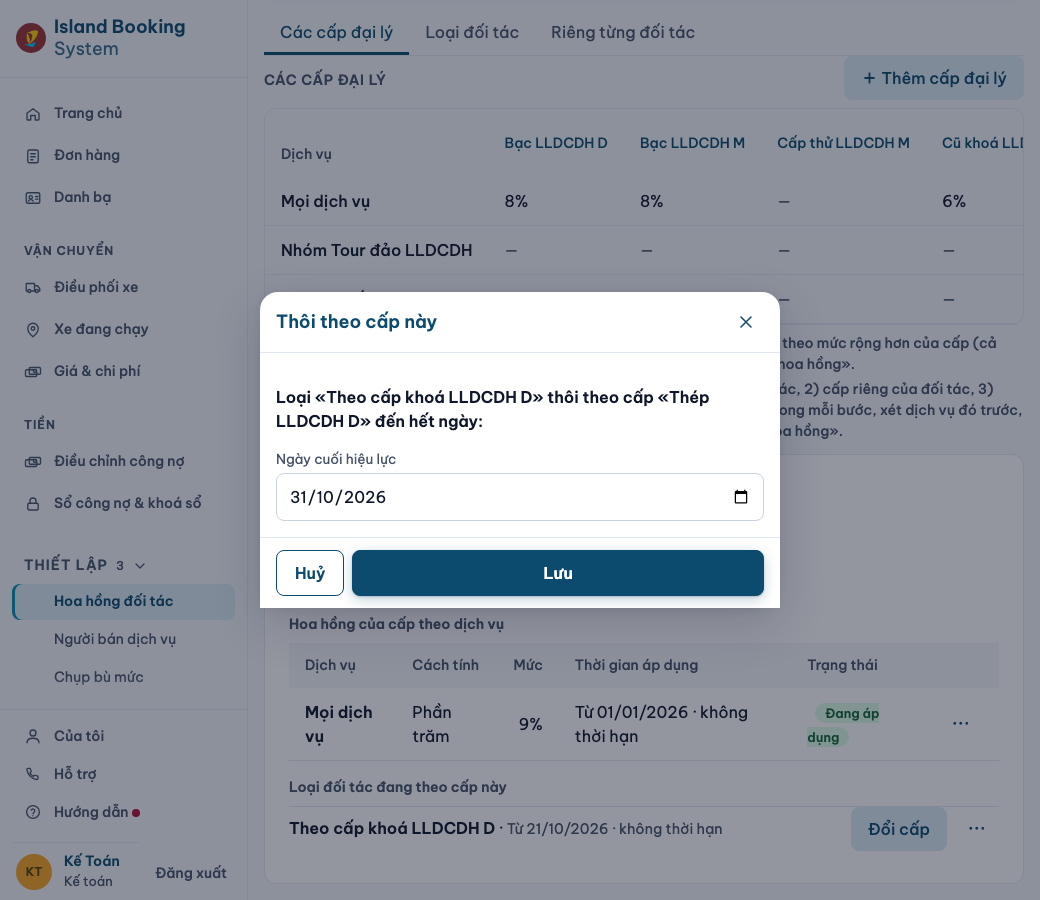
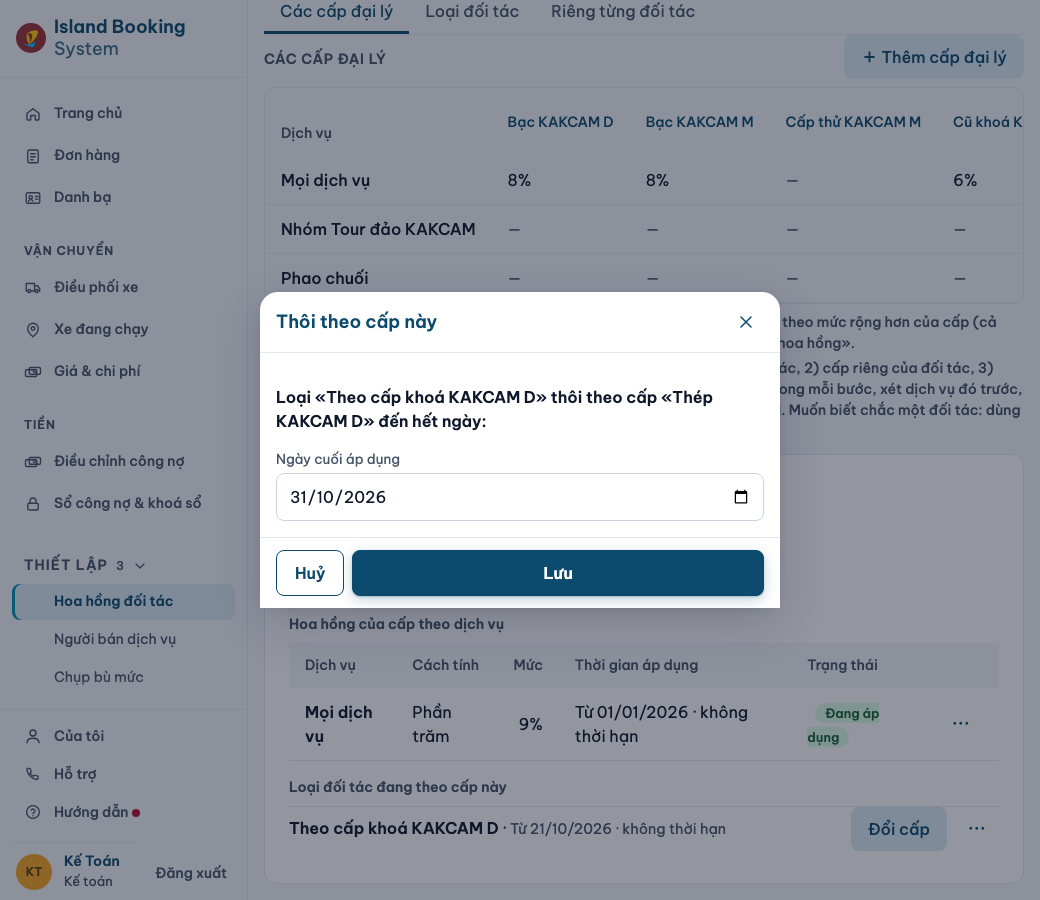
Khớp nốt chữ trang Hoa hồng với họ chữ mới (vòng 2 rà soát ngôn ngữ)
Khôi phục hai cụm bị rút ở C1 và C4; đổi «Ngày cuối hiệu lực» thành «Ngày cuối áp dụng»,
nút ngừng cấp riêng ở Danh bạ thành «Thôi theo cấp này», ba thông báo cấp riêng nói kết quả,
tiêu đề «Sửa áp dụng cấp» thành «Sửa cấp của loại». Bảng từ cấm hai cụm cũ; kịch bản Chrome chép lại.

diff --git a/src/shared/hoa-hong-hien-thi.ts b/src/shared/hoa-hong-hien-thi.ts
@@ -174,7 +174,7 @@ export const CAU_DOI_MUC_TRONG_NGAY =
  * Danh sách do MÁY CHỦ tính, nên cảnh báo chỉ có ngay sau lần áp dụng; tải lại trang thì mất.
  */
 export const cauCanhBaoDongRieng = (tenLoai: string, tenMuc: string, soDong: number): string =>
-  `Đã lưu. Lưu ý: loại «${tenLoai}» còn ${soDong} mức riêng, và mức riêng được dùng trước cấp «${tenMuc}». Muốn dùng hẳn cấp «${tenMuc}», hãy ngừng các mức riêng đó.`;
+  `Đã lưu. Lưu ý: loại «${tenLoai}» (hoặc loại khác mà cùng đối tác đang mang) còn ${soDong} mức riêng, và mức riêng được dùng trước cấp «${tenMuc}». Muốn dùng hẳn cấp «${tenMuc}», hãy ngừng các mức riêng đó.`;
 /** Trạng thái và nút Tắt / Bật của một mức — theo cờ `dangBat` của máy chủ. Quyền ghi do trang kiểm riêng bằng `can`. */
 export function nhanMucTa(m: Pick<MucTaDto, "ten" | "dangBat">): { trangThai: string; nut: { hanhDong: "tat" | "bat"; nhan: string; ariaLabel: string } } {
   return m.dangBat
@@ -244,7 +244,7 @@ export const CAU_CHUA_CO_MUC_LOAI = "Loại này chưa có hoa hồng cho dịch
 export const NHAN_CHUA_CO_MUC = "Chưa có mức";
 export const CAU_NHAC_UU_TIEN = "Mức riêng được ưu tiên hơn cấp đại lý. Mức nào áp cho một đối tác cụ thể: dùng «Kiểm tra hoa hồng».";
 /** Đặc tả hoa-hong-cap-dai-ly §5.3 (Q-2, tiêu chí 2): thứ tự áp mức, ghim nguyên văn. */
-export const CAU_THU_TU_AP_MUC = "Khi tính hoa hồng cho một đơn, Nền tảng thử lần lượt: 1) mức riêng của đối tác, 2) cấp riêng của đối tác, 3) mức riêng của loại, 4) cấp của loại. Gặp mức nào trước thì dùng mức đó. Trong mỗi bước, xét dịch vụ đó trước, rồi cả nhóm, rồi mọi dịch vụ. Muốn biết chắc một đối tác: dùng «Kiểm tra hoa hồng».";
+export const CAU_THU_TU_AP_MUC = "Khi tính hoa hồng cho một đơn, Nền tảng thử lần lượt: 1) mức riêng của đối tác, 2) cấp riêng của đối tác, 3) mức riêng của loại, 4) cấp của loại. Gặp mức nào trước thì dùng mức đó. Trong mỗi bước, xét dịch vụ đó trước, rồi cả nhóm, rồi mọi dịch vụ. Đối tác có cấp riêng thì không xét cấp của loại. Muốn biết chắc một đối tác: dùng «Kiểm tra hoa hồng».";
 export const CAU_TRA_THEO_LOAI = "Đang tra theo loại. Một đối tác cụ thể của loại này có thể có mức riêng hoặc cấp riêng — gõ tên đối tác để chắc.";
 export const cauMucCuSeNgung = (mucCu: string, tuNgay: string): string => `Mức cũ ${mucCu} sẽ ngừng, đến hết ${ngayVN(addDays(tuNgay, -1))}.`;
 export const cauSeTao = (v: { ai: string; dichVu: string; muc: string; tu: string; den: string | null }): string =>
@@ -401,11 +401,11 @@ export const nhanCapRieng = (tenCap: string): string => `Cấp riêng: ${tenCap}
 /** Một loại hồ sơ đang mang (`HoaHongHoSoResponse.vai[]`): cấp của loại đó hôm nay, hoặc chưa theo cấp nào. */
 export const cauVaiHoSo = (v: { muc: { ten: string } | null; tuNgay: string | null }): string =>
   v.muc === null ? CAU_LOAI_CHUA_THEO_CAP : v.tuNgay === null ? `Đang theo cấp ${v.muc.ten}` : cauLoaiTheoCap(v.muc.ten, v.tuNgay);
-export const cauDaDatCapRieng = (tenCap: string, tenDoiTac: string, tuNgay: string): string => `Đã đặt cấp riêng «${tenCap}» cho «${tenDoiTac}» từ ngày ${ngayVN(tuNgay)}.`;
+export const cauDaDatCapRieng = (tenCap: string, tenDoiTac: string, tuNgay: string): string => `«${tenDoiTac}» đã theo cấp riêng «${tenCap}» từ ngày ${ngayVN(tuNgay)}.`;
 export const CAU_DA_SUA_CAP_RIENG = "Đã sửa cấp riêng.";
 export const cauNgungCapRieng = (tenCap: string, tenDoiTac: string): string => `Ngừng cấp riêng ${tenCap} của ${tenDoiTac}`;
-export const cauDaNgungCapRieng = (tenCap: string, tenDoiTac: string): string => `Đã ngừng cấp riêng «${tenCap}» của «${tenDoiTac}».`;
-export const cauDaDoiCapRieng = (tenCapMoi: string, tenDoiTac: string, tuNgay: string): string => `Đã đổi cấp riêng của «${tenDoiTac}» sang «${tenCapMoi}» từ ngày ${ngayVN(tuNgay)}.`;
+export const cauDaNgungCapRieng = (tenCap: string, tenDoiTac: string): string => `«${tenDoiTac}» đã thôi theo cấp riêng «${tenCap}».`;
+export const cauDaDoiCapRieng = (tenCapMoi: string, tenDoiTac: string, tuNgay: string): string => `«${tenDoiTac}» đã chuyển sang cấp riêng «${tenCapMoi}» từ ngày ${ngayVN(tuNgay)}.`;
 /** ADR-0151 Đ8: hộp «Đổi cấp riêng» nói trước giới hạn khi cấp cũ đang khoá (đổi ra thì được, đổi ngược về cấp khoá thì không). */
 export const cauCapCuDangKhoa = (tenCapCu: string): string => `Cấp cũ «${tenCapCu}» đang khoá. Đổi xong thì không đổi ngược về cấp này được, trừ khi mở lại cấp.`;
 /** §3.3 toast tông `bien` khi «Xem dòng ↓» không còn thấy dòng. */

diff --git a/web/hoa-hong-hop.ts b/web/hoa-hong-hop.ts
@@ -155,7 +155,7 @@ function dungCachTinh(o: { tienTo: string; loi: BangLoi; homNay: string; tuMacDi
   if (o.tuMin !== null) tu.min = o.tuMin;
   if (o.tuMax) tu.max = o.tuMax;
   const denChon = h("select", { id: `${p}-den-chon`, "aria-label": "Đến ngày" }, h("option", { value: "" }, "không thời hạn"), h("option", { value: "NGAY" }, "chọn ngày…"));
-  const den = h("input", { id: `${p}-den-ngay`, type: "date", "aria-label": "Ngày cuối hiệu lực", hidden: true });
+  const den = h("input", { id: `${p}-den-ngay`, type: "date", "aria-label": "Ngày cuối áp dụng", hidden: true });
   if (o.denMacDinh) {
     denChon.value = "NGAY";
     den.value = o.denMacDinh;
@@ -455,12 +455,12 @@ export function taoMoHop(ctx: NguCanhHop): MoHop {
       if (xt.denNgayToiDa) tu.max = xt.denNgayToiDa;
     }
     const denChon = h("select", { id: "hh-sua-gan-den-chon", "aria-label": "Đến ngày" }, h("option", { value: "" }, "không thời hạn"), h("option", { value: "NGAY" }, "chọn ngày…"));
-    const den = h("input", { id: "hh-sua-gan-den", type: "date", "aria-label": "Ngày cuối hiệu lực", value: gan.denNgay ?? "", hidden: gan.denNgay === null });
+    const den = h("input", { id: "hh-sua-gan-den", type: "date", "aria-label": "Ngày cuối áp dụng", value: gan.denNgay ?? "", hidden: gan.denNgay === null });
     denChon.value = gan.denNgay === null ? "" : "NGAY";
     denChon.addEventListener("change", () => (den.hidden = denChon.value !== "NGAY"));
     const lyDo = oLyDo("hh-sua-gan-ly-do", loi);
     moHop(ctx, {
-      title: "Sửa áp dụng cấp",
+      title: "Sửa cấp của loại",
       body: [
         h("p", { class: "hint", role: "status" }, h("strong", null, cauXemTruocSua(xt, "cấp đại lý này"))),
         h("p", null, h("span", { class: "hh-nhan-nho" }, "Loại đối tác"), h("strong", null, gan.loai.ten)),
@@ -496,7 +496,7 @@ export function taoMoHop(ctx: NguCanhHop): MoHop {
     const loi = h("p", { class: "field-error", role: "alert", hidden: true });
     moHop(ctx, {
       title: o.title,
-      body: [h("p", null, h("strong", null, o.moTa)), h("label", null, "Ngày cuối hiệu lực", ngay), loi],
+      body: [h("p", null, h("strong", null, o.moTa)), h("label", null, "Ngày cuối áp dụng", ngay), loi],
       nhan: o.nhan,
       chuan() {
         const kq = docNgayDong(ngay.value, o.tuNgay);
@@ -593,7 +593,7 @@ export function taoMoHop(ctx: NguCanhHop): MoHop {
   const oHieuLuc = (p: string, loi: BangLoi, tuMacDinh: string, denMacDinh: string | null): { root: HTMLElement; tu: HTMLInputElement; den: () => string } => {
     const tu = h("input", { id: `${p}-tu`, type: "date", value: tuMacDinh });
     const denChon = h("select", { id: `${p}-den-chon`, "aria-label": "Đến ngày" }, h("option", { value: "" }, "không thời hạn"), h("option", { value: "NGAY" }, "chọn ngày…"));
-    const den = h("input", { id: `${p}-den`, type: "date", "aria-label": "Ngày cuối hiệu lực", value: denMacDinh ?? "", hidden: denMacDinh === null });
+    const den = h("input", { id: `${p}-den`, type: "date", "aria-label": "Ngày cuối áp dụng", value: denMacDinh ?? "", hidden: denMacDinh === null });
     denChon.value = denMacDinh === null ? "" : "NGAY";
     denChon.addEventListener("change", () => (den.hidden = denChon.value !== "NGAY"));
     const root = h("fieldset", { class: "hh-nhom" }, h("legend", null, "Thời gian áp dụng"),

diff --git a/web/parties.ts b/web/parties.ts
@@ -811,7 +811,7 @@ async function veHoaHongHienHanh(sec: HTMLElement, p: Api.PartyDto, tin?: string
   };
   const moKetThuc = (mr: NonNullable<Api.HoaHongHoSoResponse["mucRieng"]>) => {
     const oDen = input(r.homNay < mr.tuNgay ? mr.tuNgay : r.homNay, { type: "date" }) as HTMLInputElement;
-    const luu = button("Ngừng áp dụng", (b) =>
+    const luu = button("Thôi theo cấp này", (b) =>
       guiLenh(b, `/api/pricing/muc-rieng/${encodeURIComponent(mr.id)}/ket-thuc`, { denNgay: oDen.value }, "Đã ngừng áp dụng cấp riêng — sau ngày cuối, đại lý về cấp đại lý theo loại."), "btn btn-primary");
     replaceChildren(khuLenh,
       h("div", { class: "grid three" }, field("Áp dụng đến hết ngày", oDen)),
@@ -852,7 +852,7 @@ async function veHoaHongHienHanh(sec: HTMLElement, p: Api.PartyDto, tin?: string
     oMuc.focus();
   };
   const duocGhi = can(me, "partner.commission.write");
-  const nutNgung = rieng && rieng.denNgay === null ? button("Ngừng áp dụng", () => moKetThuc(rieng), "btn") : null;
+  const nutNgung = rieng && rieng.denNgay === null ? button("Thôi theo cấp này", () => moKetThuc(rieng), "btn") : null;
   const nutSuaRieng = rieng && coQuyenSua(me) && nutSua(rieng, r.homNay) ? button("Sửa", () => void moSua(rieng), "btn") : null;
   const nut: HTMLElement[] = !duocGhi ? []
     : rieng ? [nutNgung, nutSuaRieng].filter((x): x is HTMLButtonElement => x !== null)

diff --git a/src/shared/bang-tu-giao-dien.ts b/src/shared/bang-tu-giao-dien.ts
@@ -59,6 +59,7 @@ export const TU_DA_LOAI: readonly TuDaLoai[] = [
   // Nhãn nhật ký «Ngừng áp dụng cấp đại lý cho loại» / «… cấp riêng của đối tác» (audit-actions.ts), nút «Ngừng áp dụng» của cấp riêng ở Danh bạ và câu máy chủ «ngừng áp dụng cấp cũ trước» giữ nguyên — mẫu chặn hẹp: chỉ cụm «… cấp cho loại» và mảnh «Ngừng áp dụng cấp ‹tên›» (chuỗi mẫu cũ của hộp).
   // «Hoa hồng riêng của loại» (B3 của bảng chữ mới) được phép: luật «riêng của loại» ở lượt 3 nhắm câu «mức riêng của loại» trần, không phải tiêu đề này.
   { cam: /[Áá]p dụng cấp cho loại|[Nn]gừng áp dụng cấp(?:\s+cho loại|\s*«?\s*$)/u, thay: "Chọn cấp cho loại này · Thêm loại vào cấp này · Thôi theo cấp này", nguon: "chủ 2026-10-30 (rà soát ngôn ngữ Hoa hồng)" },
+  { cam: /Ngày cuối hiệu lực|Sửa áp dụng cấp/u, thay: "Ngày cuối áp dụng · Sửa cấp của loại", nguon: "chủ 2026-10-30 (rà soát ngôn ngữ Hoa hồng)" },
 ];
 
 /** Chữ «đảo» là hòn đảo (tên công ty, tên tour) — gỡ khỏi chuỗi trước khi so với dòng «Đảo» ở trên. */

diff --git a/docs/SO-HANG-RAO.md b/docs/SO-HANG-RAO.md
@@ -769,7 +769,7 @@ Cột "Đã thấy chặn thật": ngày + phép đột biến đã dùng + thô
 | **Đợt 0 khung chung — thanh tab dưới theo bộ quyền** (`src/thanh-tab-theo-bo-quyen.test.ts`, bảng `THANH_TAB` ở `src/shared/muc-giao-dien.ts`; đặc tả mục 5.2) | Một bộ quyền thật thấy thanh tab sai mục, sai nhãn, sai thứ tự, hơn 5 mục, hoặc "Tạo đơn" sai vị trí | Bài chạy mọi bộ quyền của ma trận quyền, so từng nhãn và thứ tự với bảng; trần 5; 1024 tập quyền kiểm trần | **2026-10-28** (Task 14): đổi tạm nhãn `Đơn hàng` thành `Đơn hàng XX` ở `THANH_TAB` ⇒ `node --test src/thanh-tab-theo-bo-quyen.test.ts` ĐỎ «not ok 1 - thanh tab của TQ … + 'Đơn hàng XX' - 'Đơn hàng'» (và «not ok 2 - thanh tab của QT») → hoàn nguyên bằng sửa lại, `git diff` sạch → XANH (14 bài) | Canh nhãn và thứ tự theo bảng ghim trong bài; không kiểm hình thật trên màn hình (kịch bản Chrome đợt 0 lo). |
 | **Đợt 0 khung chung — nhóm gập ở thanh bên** (`src/nhom-gap-thanh-ben.test.ts`, trường `nhomGap` của `THANH_BEN` ở `src/shared/muc-giao-dien.ts`; đặc tả mục 5.4) | Mục thanh bên mất nhóm gập (Điều phối xe + Đề nghị chuyển khách phải gom một khối); vượt trần 10 khối cho vai thật | Bài dựng thanh bên cho Toàn quyền và Kế toán, so thứ tự khối; bài mọi tập quyền đếm khối hiện sẵn (≤ 10, hoặc ≤ 11 khi có quyền tài xế) | **2026-10-28** (Task 14): bỏ tạm `nhomGap: DIEU_PHOI` khỏi mục `dieuPhoi` ⇒ `node --test src/nhom-gap-thanh-ben.test.ts` ĐỎ «not ok 1 - Toàn quyền: khối thanh bên theo thứ tự, Điều phối gập hai mục, đúng 10 khối hiện sẵn» («+ 'Điều phối xe' + 'Đề nghị chuyển khách' - 'Điều phối'») và «not ok 4 - MỌI tập quyền: số khối hiện sẵn …» → hoàn nguyên bằng sửa lại, `git diff` sạch → XANH (4 bài) | Tài xế công ty kiêm văn phòng ra 11 khối (chờ chủ, BACKLOG §53). |
 | **Luật cấm «chính sách» theo bộ tệp hoa hồng** (`CAM_THEO_TEP`, `CHO_PHEP_THEO_TEP` ở `src/shared/bang-tu-giao-dien.ts`; bài lượt 6 ở `src/bang-tu-giao-dien.test.ts`; đặc tả hoa-hong-cap-dai-ly §6.2) | Chữ «chính sách» (nghĩa cấp) quay lại trong `web/hoa-hong*.ts`, `web/parties.ts`, `src/modules/pricing/*.ts`, bốn tệp `src/shared` của hoa hồng; chỗ thứ ba (hay mất một chỗ) của khuôn nhật ký `chính sách ${…}` | Bài quét chuỗi (không quét chú thích) từng tệp thật bằng `viPhamTheoTep(đường dẫn, nội dung)`; ngoại lệ có tên đếm đúng 2 lần, không theo số dòng; hai mục toàn cục 6a, 6b canh các màn ngoài bộ tệp | **2026-10-30** (Task 12): thêm «Chính sách riêng» vào `web/parties.ts` ⇒ 2 bài đỏ (6b và bài theo tệp); thêm chỗ thứ ba ở `pricing/index.ts` ⇒ bài đếm đỏ; bỏ một chỗ ⇒ đỏ; hoàn nguyên ⇒ xanh |
-| **Bảng từ lượt 7 — chữ trang Hoa hồng đối tác** (`src/shared/bang-tu-giao-dien.ts` dòng «Lượt 7»; bài `src/bang-tu-giao-dien.test.ts`; hồ sơ `docs/superpowers/specs/2026-10-30-ra-soat-ngon-ngu-hoa-hong/`) | Hai chữ «Áp dụng cấp cho loại» và «Ngừng áp dụng cấp ‹tên›» (nút/hộp của cấp của loại) quay lại trong chữ giao diện | Bài quét chuỗi (không quét chú thích); mẫu chặn hẹp để nhãn nhật ký `audit-actions.ts`, nút «Ngừng áp dụng» của cấp riêng ở Danh bạ và câu máy chủ cũ không dính | **2026-10-30**: đổi nút ở `web/hoa-hong-loai.ts` về «Áp dụng cấp cho loại» ⇒ `node --test src/bang-tu-giao-dien.test.ts` ĐỎ («web/hoa-hong-loai.ts:85 «Áp dụng cấp cho loại» — chữ đã loại …») → hoàn nguyên → XANH | Không bắt biến thể khác chữ (ví dụ «Áp dụng cấp X cho loại Y» với tên chen giữa là mảnh chuỗi mẫu riêng). Đã nới luật lượt 3 cho «Hoa hồng riêng của loại» (B3). |
+| **Bảng từ lượt 7 — chữ trang Hoa hồng đối tác** (`src/shared/bang-tu-giao-dien.ts` dòng «Lượt 7»; bài `src/bang-tu-giao-dien.test.ts`; hồ sơ `docs/superpowers/specs/2026-10-30-ra-soat-ngon-ngu-hoa-hong/`) | Hai chữ «Áp dụng cấp cho loại» và «Ngừng áp dụng cấp ‹tên›» (nút/hộp của cấp của loại) quay lại trong chữ giao diện | Bài quét chuỗi (không quét chú thích); mẫu chặn hẹp để nhãn nhật ký `audit-actions.ts`, nút «Ngừng áp dụng» của cấp riêng ở Danh bạ và câu máy chủ cũ không dính | **2026-10-30**: đổi nút ở `web/hoa-hong-loai.ts` về «Áp dụng cấp cho loại» ⇒ `node --test src/bang-tu-giao-dien.test.ts` ĐỎ («web/hoa-hong-loai.ts:85 «Áp dụng cấp cho loại» — chữ đã loại …») → hoàn nguyên → XANH | Không bắt biến thể khác chữ (ví dụ «Áp dụng cấp X cho loại Y» với tên chen giữa là mảnh chuỗi mẫu riêng). Đã nới luật lượt 3 cho «Hoa hồng riêng của loại» (B3).Vòng 2 (cùng ngày): thêm «Ngày cuối hiệu lực» và «Sửa áp dụng cấp»; đưa «Ngày cuối hiệu lực» lại vào nhãn hộp ở `web/hoa-hong-hop.ts` ⇒ bài ĐỎ («web/hoa-hong-hop.ts:499 «Ngày cuối hiệu lực» — chữ đã loại …») → hoàn nguyên → XANH. |
 | **ADR-0152 (h) — bảng chân trị view `v_ctl_service_attribute`** (migration `*_dac_diem_dich_vu.sql`; bài «(h) bảng chân trị» + «tối đa MỘT dòng» ở `src/migrations-dac-diem-dich-vu.test.ts`, trong `npm test`; nhánh `claude/tinh-trang-ban-va-phu-thu`, CHƯA gộp) | View đặc điểm tính sai «riêng thắng chung»: giá trị nhóm đè giá trị riêng, nhóm đã tắt / nhóm cũ (dịch vụ đã về Chưa phân loại) vẫn cho giá trị, view nhân dòng hoặc thêm cột tên | 12 ô {riêng có / không} × {nhóm có / không giá trị chung} × {nhóm hiện hành đang dùng / đã tắt / Chưa phân loại} với đáp án viết tay trong bài (không suy từ mã); ghim cột hai view | **2026-10-30** (T1): đổi `COALESCE(s.value_code, g.value_code)` thành `COALESCE(g.value_code, s.value_code)` trong 0128 ⇒ `node --test src/migrations-dac-diem-dich-vu.test.ts` ĐỎ «not ok 6 - (h) bảng chân trị …» («RC-dung … + actual - expected + 'xC'») và «not ok 7 - … tối đa MỘT dòng …» → hoàn nguyên bằng sửa lại → XANH 7/7 | Canh view trên SQLite (node:sqlite), không trên D1. Không canh nơi đọc view (hàm luật bán, màn đặc điểm — T4, T7). |
 | **ADR-0152 (j) — migration của lượt không gieo đặc điểm** (bài «(j) … không gieo dữ liệu» ở `src/migrations-dac-diem-dich-vu.test.ts`; quét cả `*_dac_diem_dich_vu.sql` và `*_luat_ban.sql` đã bỏ chú thích; CHƯA gộp) | Migration chèn sẵn đặc điểm / giá trị / dòng gắn (trái A-C3: đặc điểm là dữ liệu Quản trị nhập trên màn, mã không biết đặc điểm nào) | Quét `INSERT [OR …] INTO ctl_attribute…` trong hai tệp migration của lượt + khẳng định ba bảng rỗng sau khi dựng CSDL từ toàn bộ migration | **2026-10-30** (T1): thêm `INSERT INTO ctl_attribute (…) VALUES ('a000000000000', 'Gieo thử', …)` vào 0128 ⇒ ĐỎ «not ok 1 - (j) ADR-0152 Đ1 «không gieo dữ liệu» …» (error: '0128_dac_diem_dich_vu.sql') → hoàn nguyên → XANH | Chỉ quét hai tệp của lượt này; migration SAU muốn gieo phải qua ADR. Phần «ba bảng rỗng» bắt cả câu gieo ở tệp khác. |
 | **ADR-0152 (f) — chỉ `catalog/dac-diem-repo.ts` nhắc ba bảng `ctl_attribute*`** (`src/dac-diem-chi-mot-tep.test.ts`, trong `npm test`; tệp nửa nghiêm thêm vào `NUA_NGHIEM` của `src/architecture.test.ts`; CHƯA gộp) | Mã chạy ngoài tệp nửa nghiêm (kể cả module LEGACY `catalog/repository.ts`, `orders`) đọc / ghi thẳng `ctl_attribute`, `ctl_attribute_value`, `ctl_attribute_assignment` thay vì view công bố | Quét `src/**/*.ts` (trừ test) đã bỏ chú thích bằng `\bctl_attribute(?:_value\|_assignment)?\b`; bài tự kiểm bộ quét (view `v_ctl_*`, tên hành động nhật ký `ctl_attribute_created`, mã lỗi trigger không bị bắt) | **2026-10-30** (T2): thêm `const DOT_BIEN = "SELECT 1 FROM ctl_attribute";` vào `catalog/repository.ts` ⇒ ĐỎ «not ok 1 - (f) …» («nhắc thẳng bảng đặc điểm ngoài tệp nửa nghiêm: src/modules/catalog/repository.ts: ctl_attribute») → hoàn nguyên → XANH | Không quét `scripts/` (kiểm định kỳ đọc bảng — được miễn như ADR-0146 Đ6 (a)), `web/`, `tests/`. Không bắt tên bảng ghép chuỗi. |
